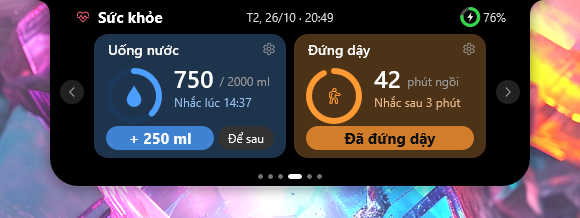
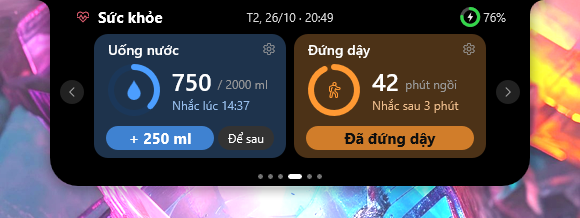
fix(health): the ring and its picture sit on the same middle line as the figures and start at the title's left edge

Changed region(s): [[0.5276, 0.2752, 0.8069, 0.578], [0.2172, 0.2752, 0.4655, 0.5505]]

diff --git a/src/render.rs b/src/render.rs
@@ -2628,19 +2628,22 @@ impl Renderer {
                                 // A ring of the day's progress with the card's own picture in it; the figure and
                                 // its unit beside it, the status line under both.
                                 let (bl, br_) = (x + 12.0 * s, x + card_w * s - 12.0 * s);
-                                let hub = (bl + 28.0 * s, (CARD_TOP + 62.0) * s);
+                                // The ring and the figures share one middle line, between the title and the button, and the
+                                // ring starts where the title does.
+                                let ring_d = 52.0;
+                                let hub = (x + (14.0 + ring_d / 2.0) * s, (CARD_TOP + 56.0) * s);
                                 // The empty ring keeps the card's own tint, so it reads as designed, not as missing.
                                 let track = color(accent.0 * 0.35, accent.1 * 0.35, accent.2 * 0.35, a);
-                                self.draw_ring_on(hub, 56.0 * s, 6.0 * s, frac, accent, track, a)?;
+                                self.draw_ring_on(hub, ring_d * s, 6.0 * s, frac, accent, track, a)?;
                                 if card == Card::Water {
-                                    let g = self.water_drop(hub.0, hub.1, 22.0 * s)?;
+                                    let g = self.water_drop(hub.0, hub.1, 20.0 * s)?;
                                     rt.FillGeometry(&g, &self.brush(solid(accent, a))?, None);
                                 } else {
-                                    text(ICON_WALK, F_ICON, rect(hub.0 - 14.0 * s, hub.1 - 14.0 * s, hub.0 + 14.0 * s, hub.1 + 14.0 * s), center, solid(accent, a))?;
+                                    text(ICON_WALK, F_ICON, rect(hub.0 - 13.0 * s, hub.1 - 13.0 * s, hub.0 + 13.0 * s, hub.1 + 13.0 * s), center, solid(accent, a))?;
                                 }
                                 // The figure large, its unit on the same line when it fits (else under it), then
                                 // the status in the card's colour.
-                                let (tx, by) = (bl + 68.0 * s, (CARD_TOP + 30.0) * s);
+                                let (tx, by) = (x + (14.0 + ring_d + 12.0) * s, (CARD_TOP + 33.0) * s);
                                 let (bw, uw) = (width(&big, F_BIG), width(unit.trim(), F_LABEL));
                                 text(&big, F_BIG, rect(tx, by, br_, by + 28.0 * s), lead, grey(1.0, a))?;
                                 let line2 = if tx + bw + 6.0 * s + uw <= br_ {
